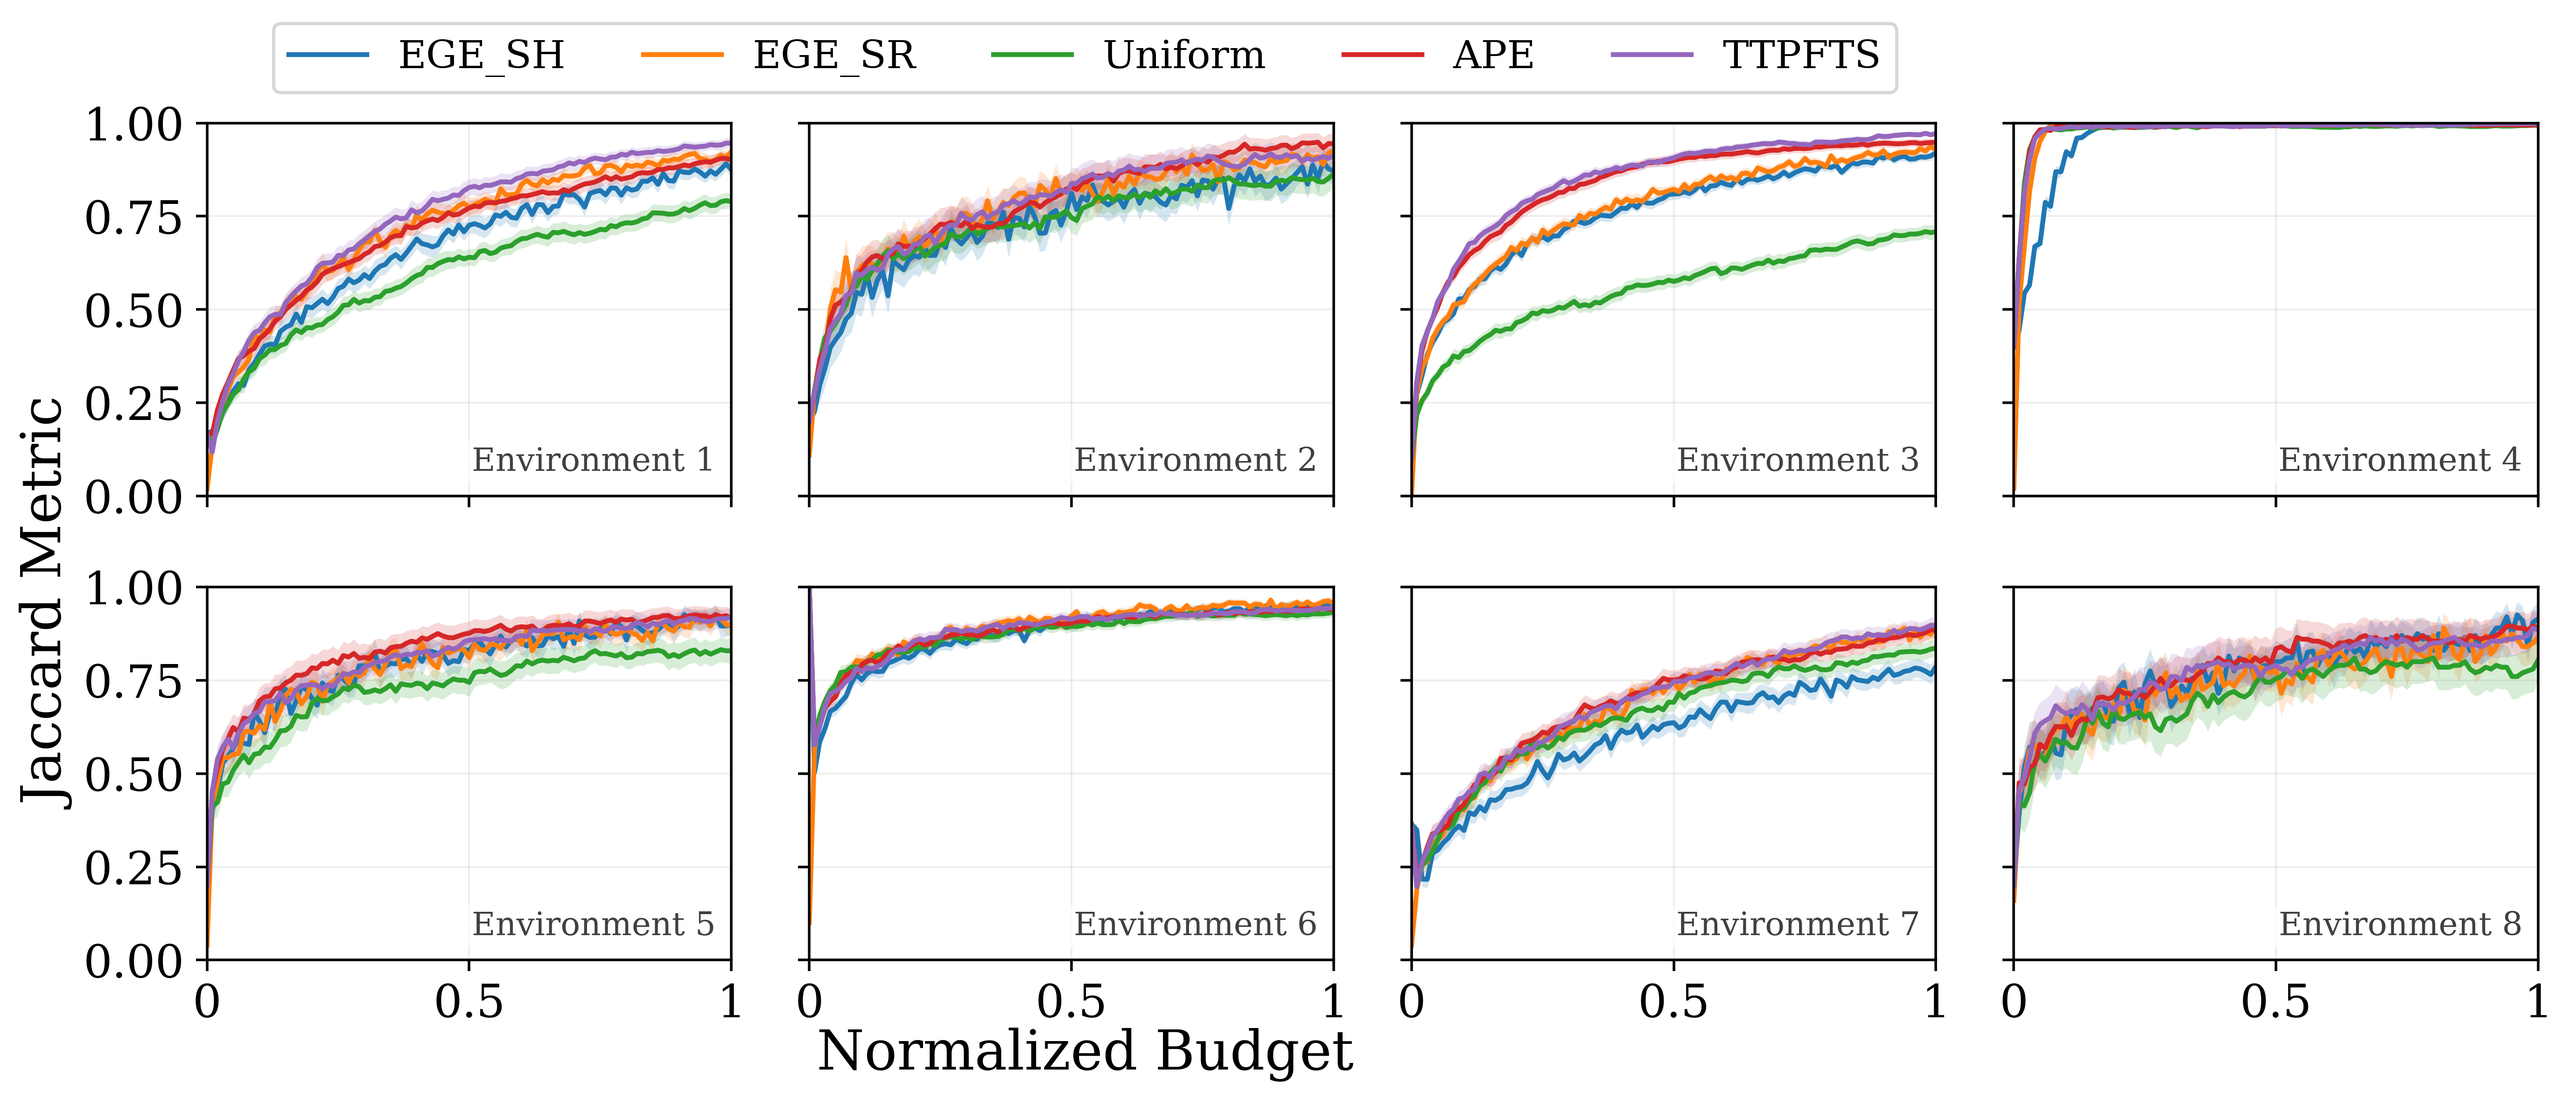
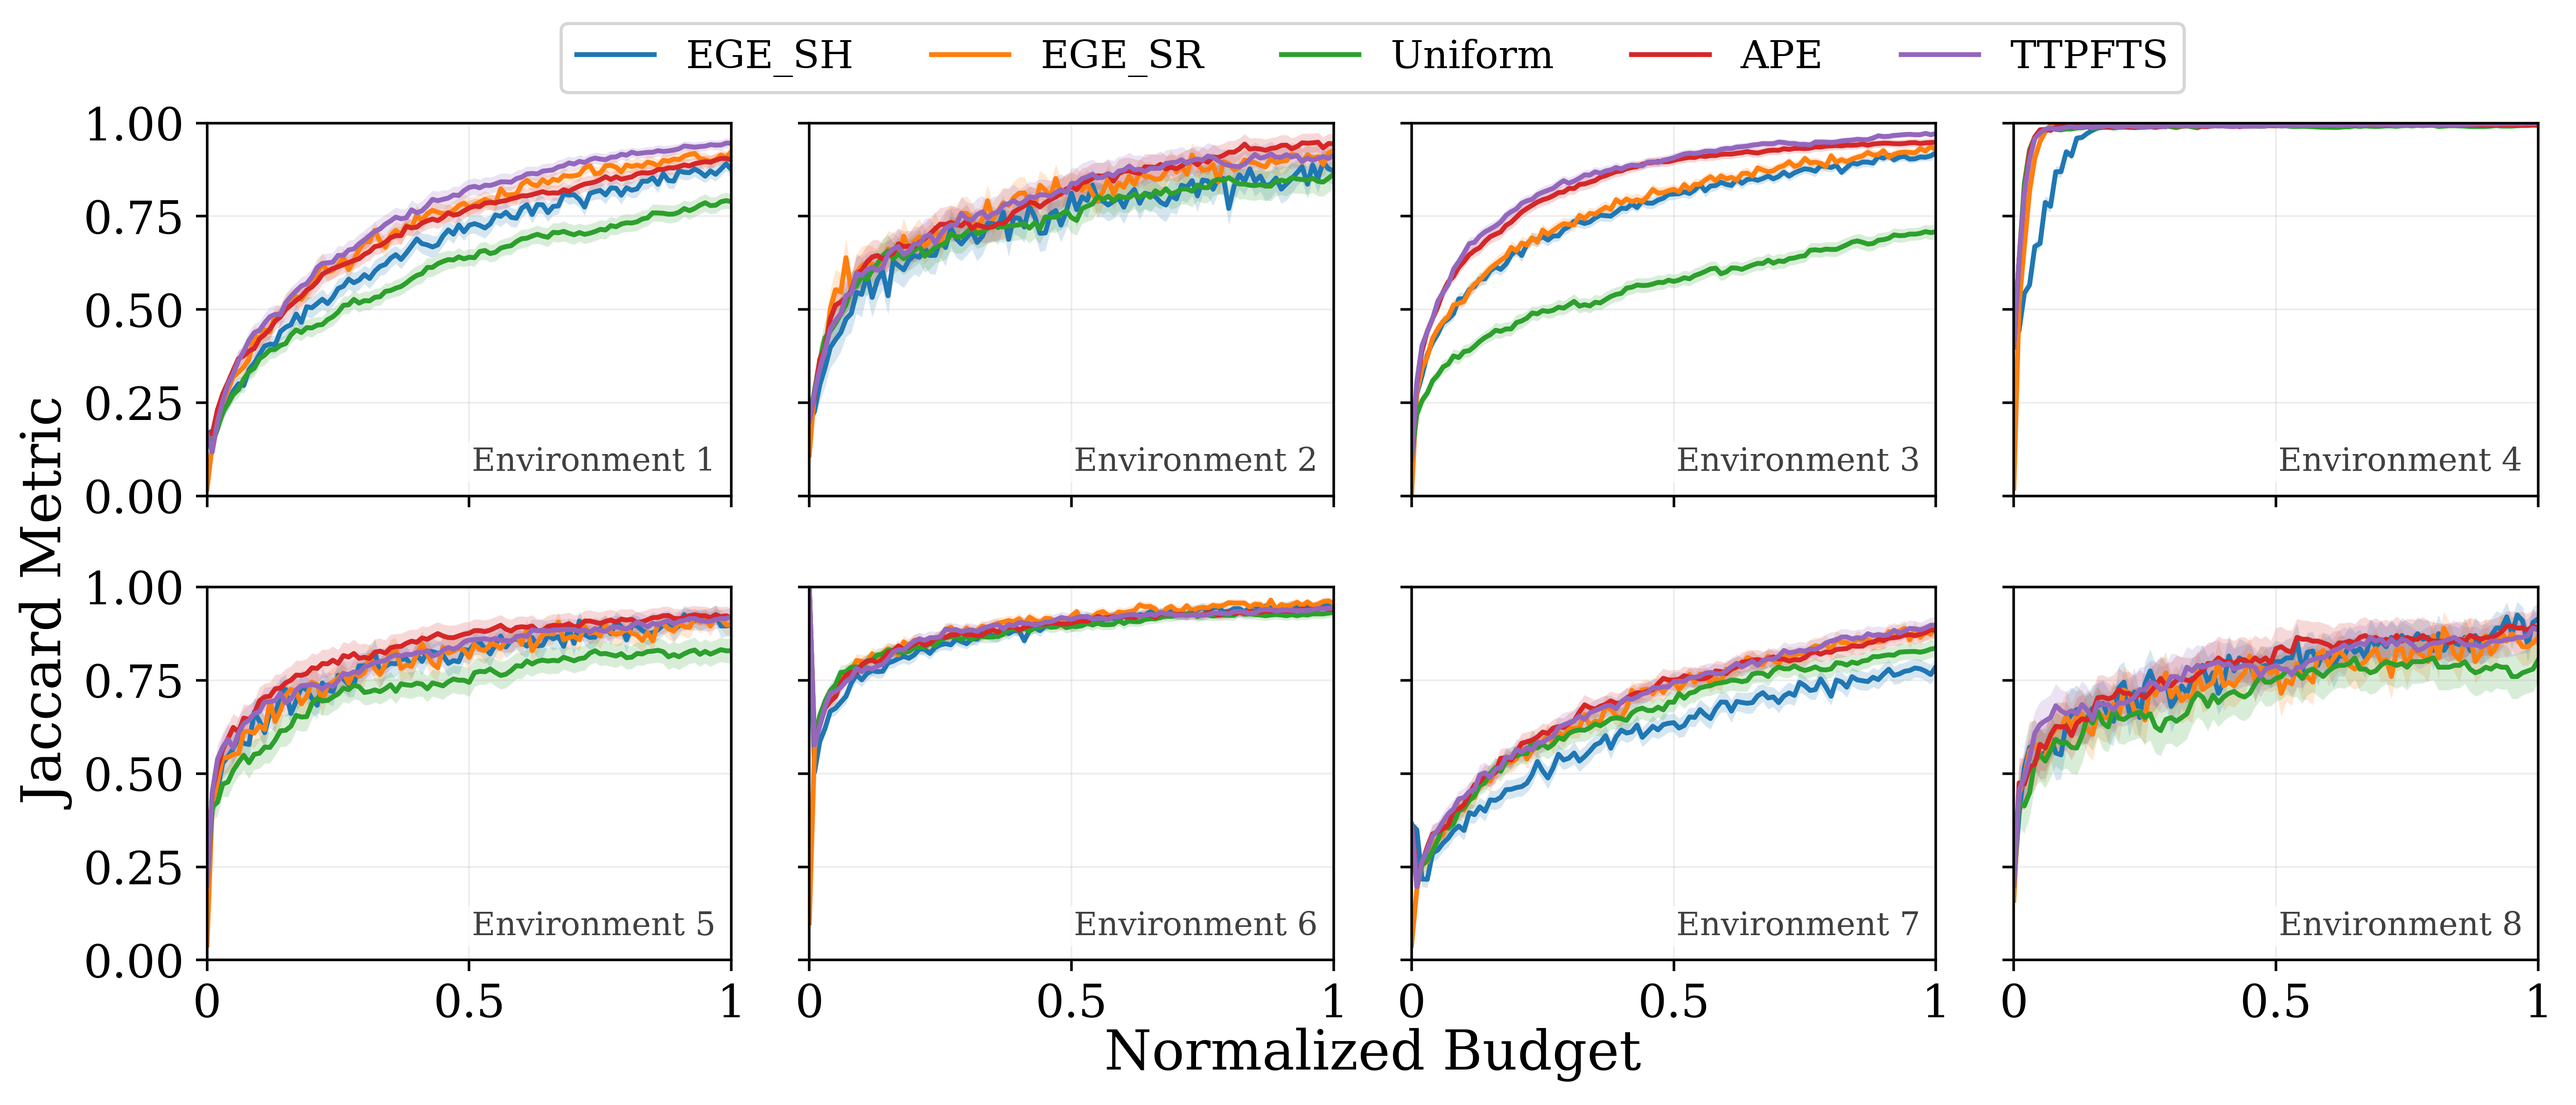
Center publication annotations on subplot grid
Derive the legend and shared normalized-budget label positions from the final visible 2x4 axes bounds, with regression checks for exact grid centering.

Changed region(s): [[0.0935, 0.0, 0.8413, 0.0938], [0.3116, 0.9375, 0.6543, 0.9688]]

diff --git a/plotting.py b/plotting.py
@@ -622,7 +622,7 @@ def plot_metric_all_envs_grid_top_legend(
             if label not in labels:
                 handles.append(handle)
                 labels.append(label)
-    fig.legend(
+    legend = fig.legend(
         handles,
         labels,
         loc="upper center",
@@ -631,12 +631,18 @@ def plot_metric_all_envs_grid_top_legend(
         fontsize=12,
         frameon=True,
     )
-    fig.supxlabel("Normalized Budget", y=0.19)
+    x_label = fig.supxlabel("Normalized Budget", y=0.19)
     fig.supylabel(METRIC_LABELS[metric_key], x=0.15)
     # Reserve a fixed band for the figure-level legend.  This must not be
     # inferred from the axes' tick-label extents: log-scaled axes have taller
     # tick labels and would otherwise push the legend outside the saved figure.
     fig.tight_layout(rect=[0.13, 0.13, 1, 0.855])
+    visible_axes = [ax for ax in axes.flat if ax.get_visible()]
+    grid_left = min(ax.get_position().x0 for ax in visible_axes)
+    grid_right = max(ax.get_position().x1 for ax in visible_axes)
+    grid_center = (grid_left + grid_right) / 2.0
+    x_label.set_x(grid_center)
+    legend.set_bbox_to_anchor((grid_center, 0.89), transform=fig.transFigure)
 
     plotted_table = pd.concat(plotted_tables, ignore_index=True) if plotted_tables else pd.DataFrame()
     if table_file is not None:

diff --git a/test_plotting_regression.py b/test_plotting_regression.py
@@ -160,6 +160,11 @@ def test_shared_labels_and_legend_entries():
     annotations = [text.get_text() for ax in axes.flat for text in ax.texts]
     check("subplots have compact environment labels", annotations == [f"Environment {i}" for i in range(1, 9)],
           str(annotations))
+    grid_center = (axes[0, 0].get_position().x0 + axes[0, -1].get_position().x1) / 2.0
+    x_label = next(text for text in fig.texts if text.get_text() == "Normalized Budget")
+    legend_center = fig.legends[0].get_bbox_to_anchor().transformed(fig.transFigure.inverted()).x0
+    check("shared x-label centers on subplot grid", abs(x_label.get_position()[0] - grid_center) < 1e-9)
+    check("legend centers on subplot grid", abs(legend_center - grid_center) < 1e-9)
     plt.close(fig)
 
 
